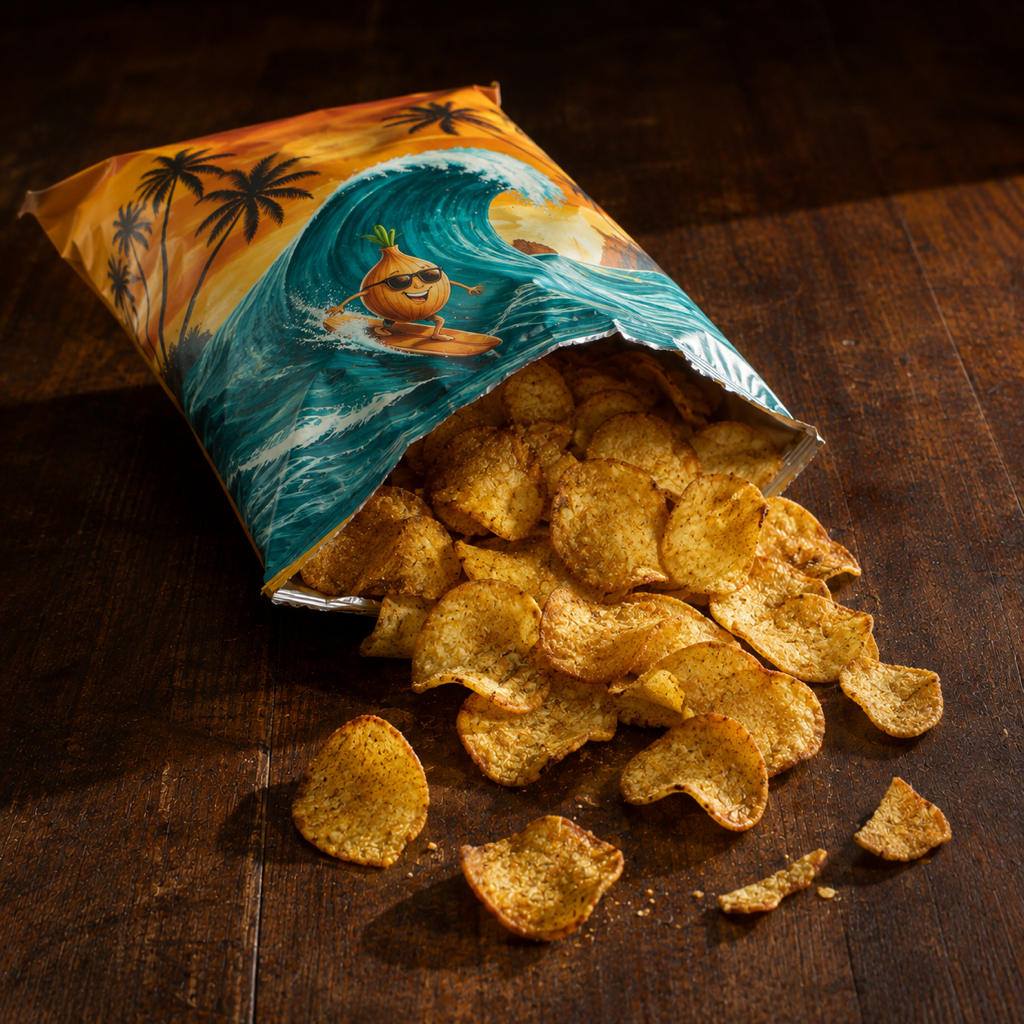
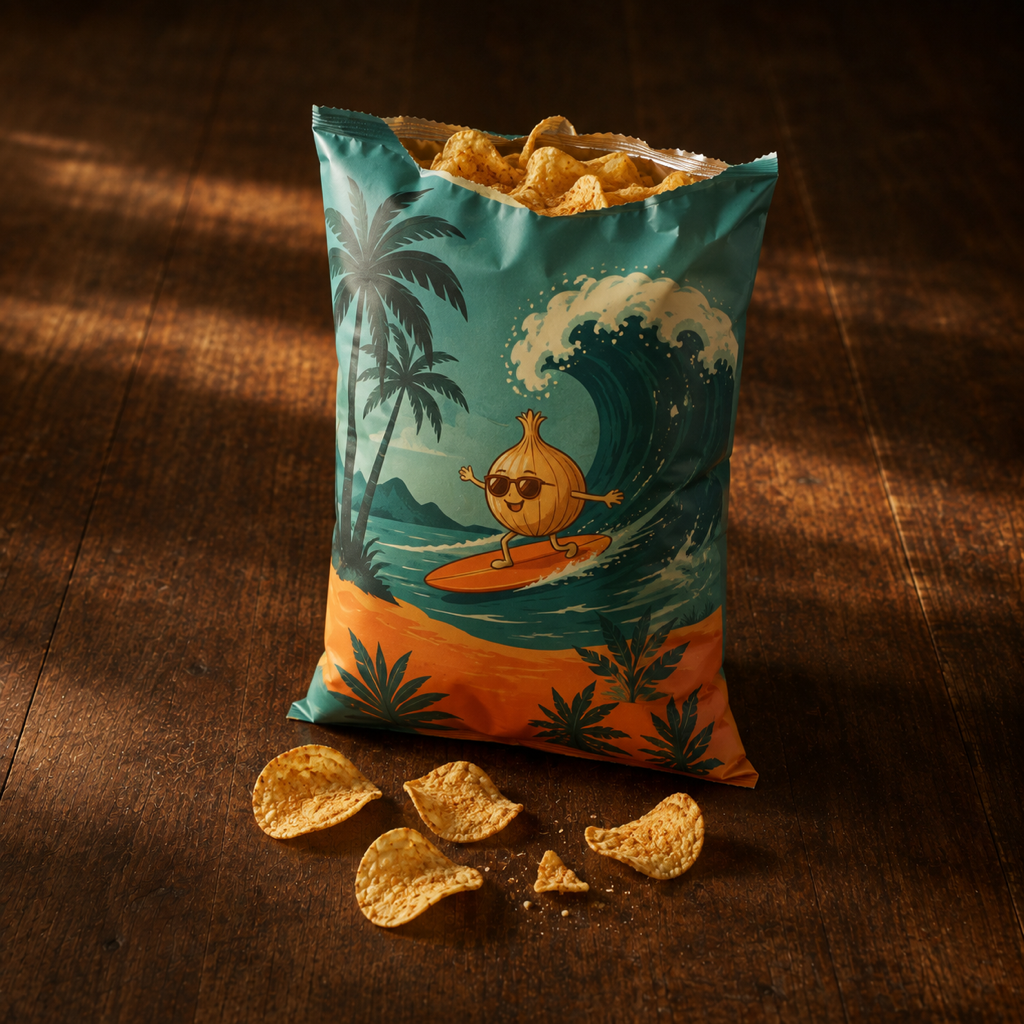
盒级 open：开盒/开袋/撕锡纸同一坐只说一次（试吃抓的：第二片还在撕封口）；薯片和 85% 板数据照改；去掉我写的两句评测腔和替人伸手

diff --git a/snackbox_mcp.py b/snackbox_mcp.py
@@ -238,6 +238,14 @@ def _nth(st, box_id, piece_id, now=None):
     return n
 
 
+def _box_first_of_sitting(st, box_id, now=None):
+    now = now or _now()
+    for f in st.get("fed", []):
+        if f.get("box") == box_id and (now - _parse(f["t"])).total_seconds() / 3600.0 <= SITTING_H:
+            return False
+    return True
+
+
 def _variant(piece, n, seed=""):
     """按第几颗套 stages，第三颗起按概率碰坏果。返回一个合成后的颗（不改原数据）。"""
     v = dict(piece)
@@ -387,10 +395,15 @@ def snackbox_pick(box: str = "", piece: str = "", why: str = "") -> str:
         if st["remaining"][b["id"]].get(p["id"], 0) <= 0:
             return HAND["slot_empty"]
         n = _nth(st, b["id"], p["id"])
+        first_of_box = _box_first_of_sitting(st, b["id"])
         st["held"] = {"box": b["id"], "piece": p["id"], "t": _iso(_now()), "n": n}
         _write_state(st)
     v = _variant(p, n, seed=_today())
-    return "\n".join([v["name"], v["wrap"], v["look"], v["smell"]])
+    lines = [v["name"]]
+    if first_of_box and b.get("open"):
+        lines.append(b["open"])          # 盒/袋/板怎么打开：同一坐只说一次
+    lines += [v["wrap"], v["look"], v["smell"]]   # 颗的 wrap 是这一颗的动作（掰一块/伸手捏一片），每次都说；开盒开袋在 box.open 只说一次
+    return "\n".join(x for x in lines if x)
 
 
 @mcp.tool(name="snackbox_open", description=TOOL_DESC["open"])

diff --git a/gate.py b/gate.py
@@ -60,7 +60,7 @@ PIECE_FIELDS = {"id", "name", "form", "cocoa", "count", "tray", "wrap", "look", 
 VARIANT_FIELDS = {"wrap", "look", "smell", "first_seconds", "melt", "aftertaste"}
 PIECE_REQUIRED = {"id", "name", "form", "count", "wrap", "look", "smell", "first_seconds", "melt",
                   "aftertaste", "aftertaste_minutes"}
-BOX_FIELDS = {"id", "name", "kind", "look", "note", "pieces", "status"}   # status: "draft" = 写完了但她还没校正，不上桌
+BOX_FIELDS = {"id", "name", "kind", "look", "note", "pieces", "status", "open"}   # open: 盒/袋/板怎么打开，同一坐只说一次   # status: "draft" = 写完了但她还没校正，不上桌
 BOX_REQUIRED = {"id", "name", "kind", "look", "pieces"}
 
 
@@ -156,7 +156,7 @@ def check_box(box, serving=False):
     missing = BOX_REQUIRED - set(box)
     if missing:
         box_probs.append("盒缺字段: %s" % ",".join(sorted(missing)))
-    for k in ("name", "look"):
+    for k in ("name", "look", "open"):
         for cat, frag in check_text(box.get(k, ""), serving=serving):
             box_probs.append("盒 %s: %s「%s」" % (k, cat, frag))
     if "note" in box:
